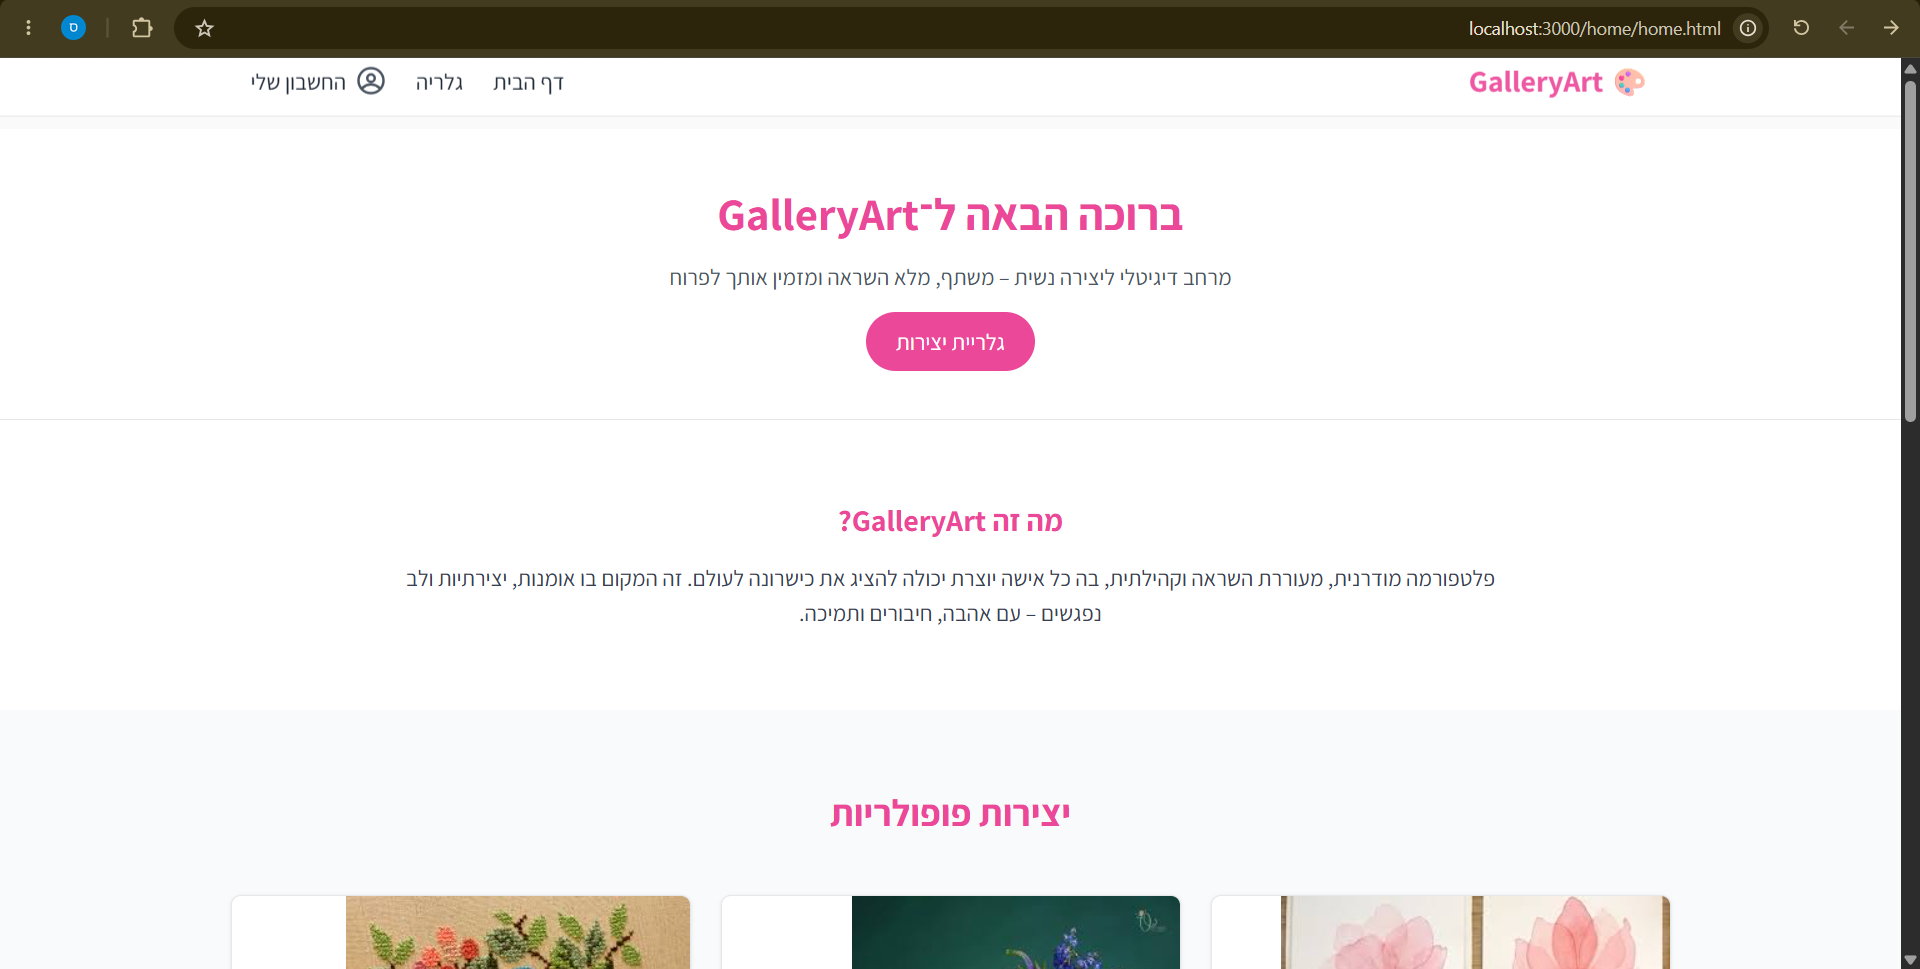
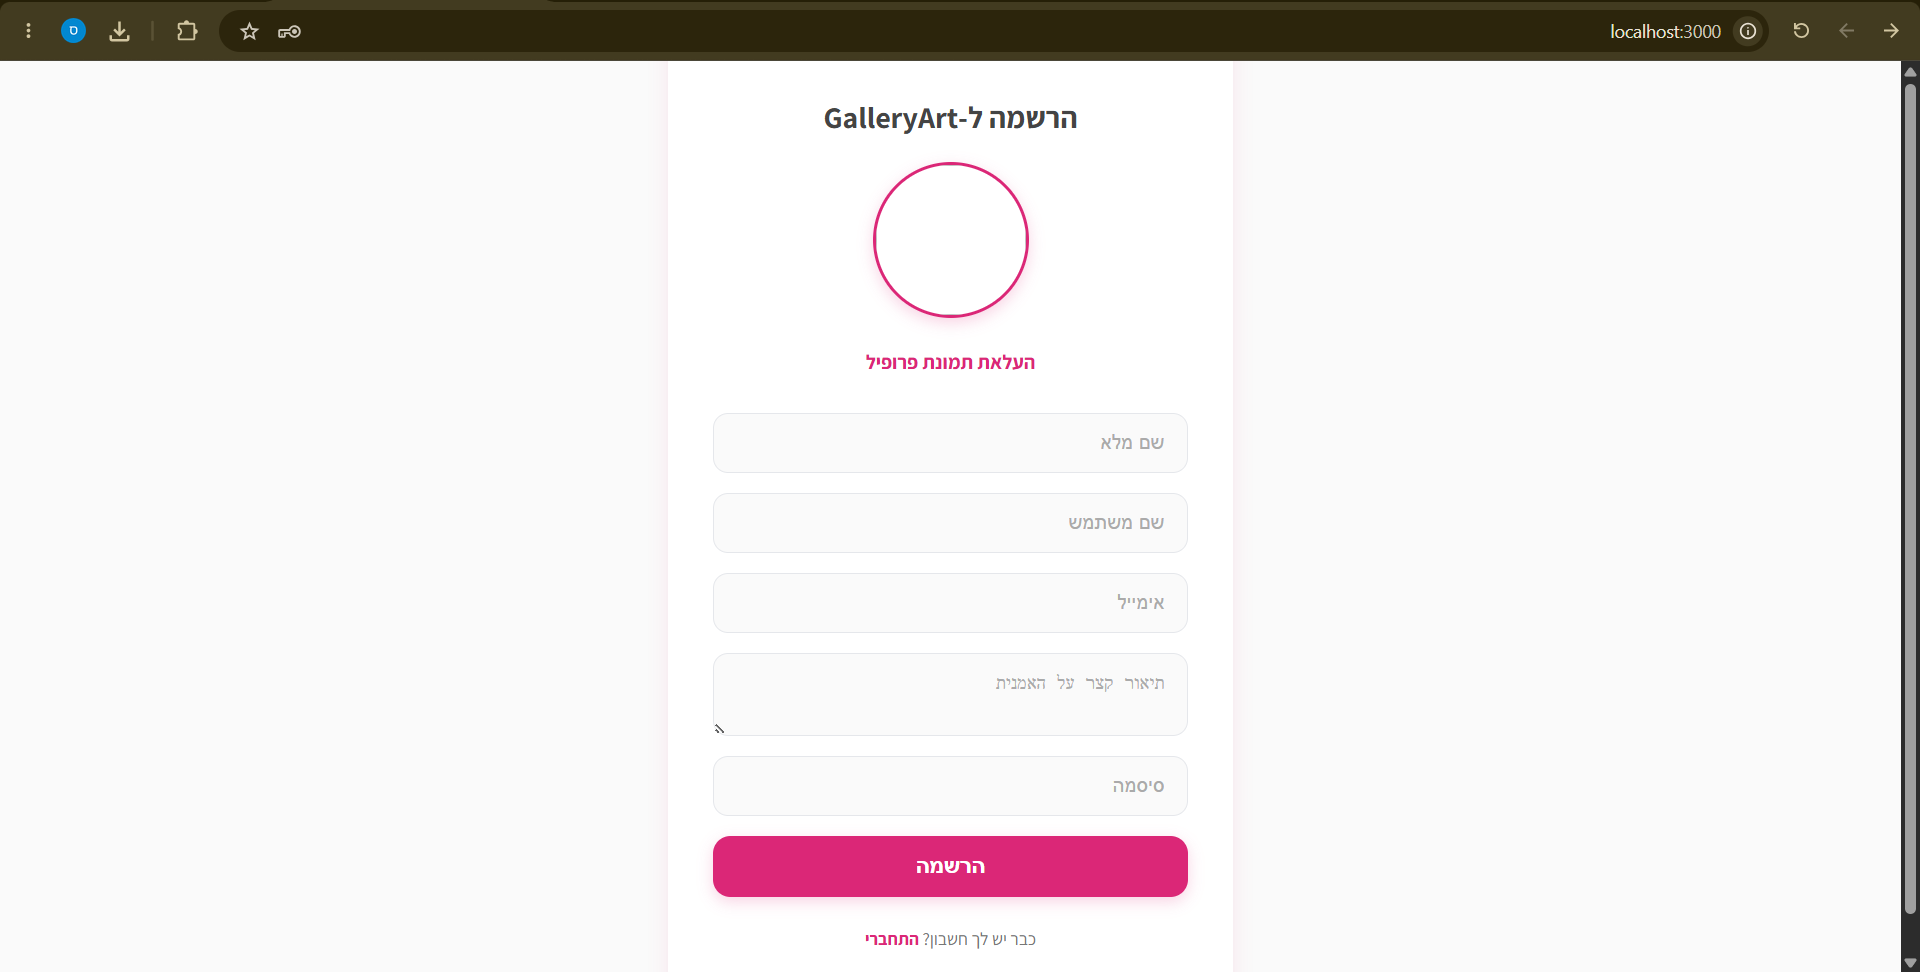
Update screenshots with correct captions

diff --git a/README.md b/README.md
@@ -103,13 +103,14 @@ myGallary/
 
 | Page | Preview |
 |------|---------|
-| **Home** | ![Home](screenshots/home.png) |
-| **Gallery** | ![Gallery](screenshots/gallery.png) |
-| **Artist Profile** | ![Artist Profile](screenshots/artist.png) |
-| **Account Management** | ![Account](screenshots/account.png) |
-| **Register** | ![Register](screenshots/register.png) |
-| **Login** | ![Login](screenshots/login.png) |
-| **Upload Artwork** | ![Upload](screenshots/upload.png) |
+| **גלריה** | ![Gallery](screenshots/home.png) |
+| **חיפוש בגלריה** | ![Search image in gallery](screenshots/gallery.png) |
+| **עריכת פרופיל** | ![Edit Profile](screenshots/artist.png) |
+| **דף הבית (החלק התחתון)** | ![Home bottom](screenshots/account.png) |
+| **התחברות** | ![Login](screenshots/login-full.png) |
+| **הרשמה** | ![Register](screenshots/register.png) |
+| **פרופיל משתמש** | ![User Profile](screenshots/upload.png) |
+| **העלאת יצירה** | ![Upload Artwork](screenshots/upload-artwork.png) |
 
 ## 🤝 Contributing
 
